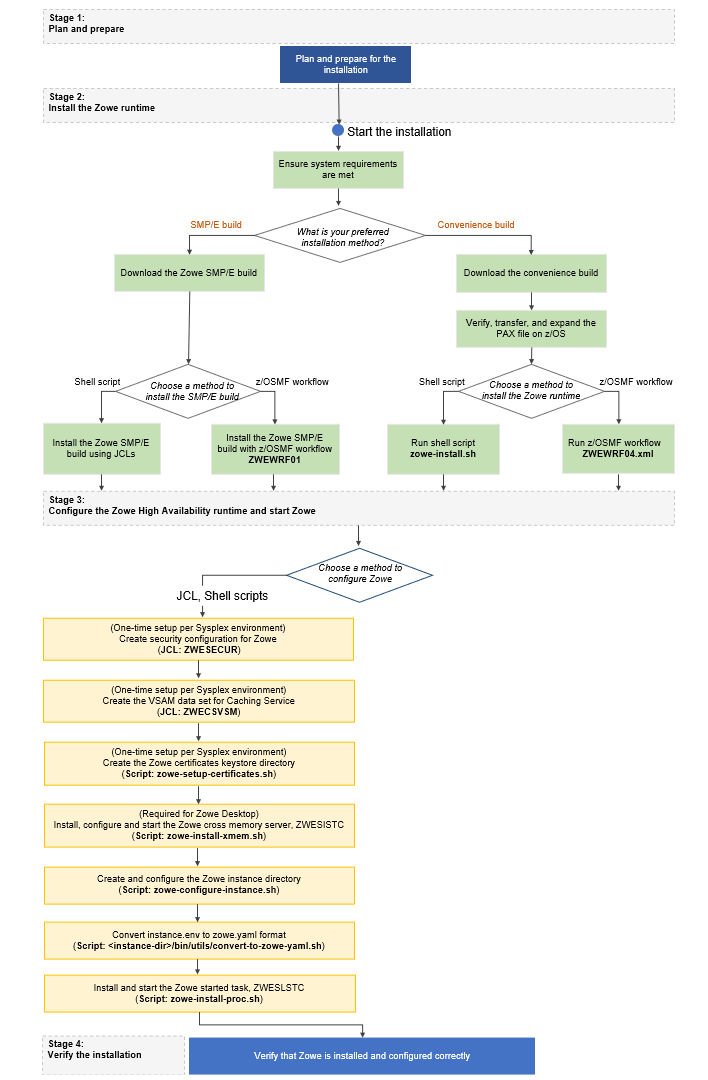
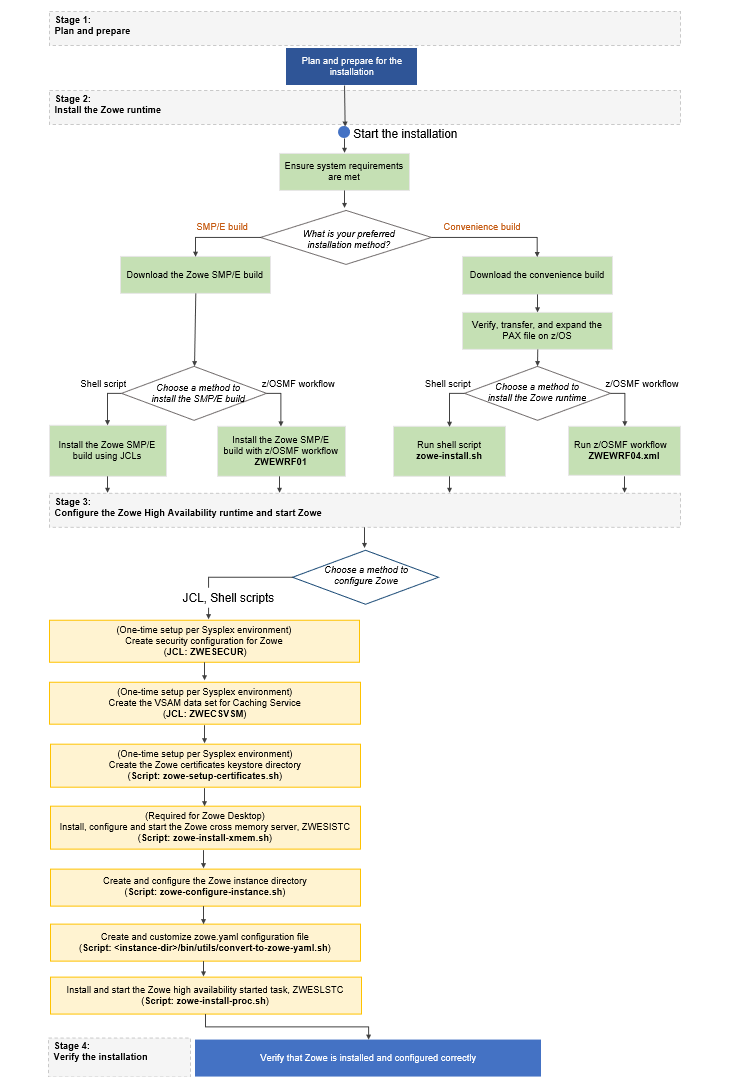
changes to HA installation roadmap, Zowe started task

diff --git a/docs/user-guide/install-ha-sysplex.md b/docs/user-guide/install-ha-sysplex.md
@@ -1,6 +1,6 @@
 # Zowe High Availability Installation Roadmap (Technical Preview)
 
-<Badge text="Technical Preview"/> The Zowe High Availability build is a technical preview. Technical previews are for testing only and not ready for production. Any feedback that you can provide is highly appreciated.
+<Badge text="Technical Preview"/> The high availability of Zowe is a technical preview. Technical previews are for testing only and not ready for production. Any feedback that you can provide is highly appreciated.
 
 There are two parts to installing Zowe&trade; on a Sysplex. 
 
@@ -38,8 +38,8 @@ Review the installation diagram and the introduction in this topic to see the ge
   <area href="configure-certificates.html" alt="Configure Zowe certificates using shell script" title="Create the Zowe certificates keystore directory using shell script" shape="rect" coords="124, 830, 426, 882" />
   <area href="configure-xmem-server.html" alt="Configure the Zowe cross memory server using shell script" title="Install and configure the Zowe cross memory server (ZWESISTC) using shell script" shape="rect" coords="123, 909, 426, 952" />
   <area href="configure-instance-directory.html" alt="Create and configure the Zowe instance directory using shell script" title="Create and configure the Zowe instance directory using shell script" shape="rect" coords="121, 976, 426, 1038" />
-  <area href="configure-instance-directory.html" alt="Create and configure the Zowe instance directory using shell script" title="Create and configure the Zowe instance directory using shell script" shape="rect" coords="121, 976, 426, 1038" />
-  <area href="configure-zowe-server.html" alt="Install and start the Zowe started task using shell script" title="Install and start the Zowe started task (ZWESVSTC) using shell script" shape="rect" coords="125, 1065, 426, 1117" />
+  <area href="configure-instance-directory.html" alt="Create and customize Zowe YAML configuration file using shell script" title="Create and customize Zowe YAML configuration file using shell script" shape="rect" coords="121, 976, 426, 1038" />
+  <area href="configure-zowe-ha-server.html" alt="Install and start the Zowe high availability started task using JCL" title="Install and start the Zowe high availability started task (ZWESLSTC) using JCL" shape="rect" coords="125, 1065, 426, 1117" />
 
   <area href="verify-zowe-runtime-install.html" alt="Verify Zowe installation on z/OS" title="Verify Zowe installation on z/OS" shape="rect" coords="224, 1154, 616, 1198" />
 </map>
@@ -50,9 +50,9 @@ Before you start the installation, review the information on hardware and softwa
 
 ## Stage 2: Install the Zowe runtime
 
-1. Ensure that the software requirements are met. The prerequisites are described in [System requirements](systemrequirements.md).
+1. Ensure that the software requirements are met. The prerequisites are described in [Zowe high availability requirements (host)](systemrequirements.md).
 
-1. Choose the method of installing Zowe High Availability on a Sysplex. 
+1. Choose the method of installing Zowe high availability instances on a Sysplex. 
 
    The Zowe z/OS binaries are distributed in the following formats. They contain the same contents but you install them by using different methods. You can choose which method to use depending on your needs.
 
@@ -73,11 +73,11 @@ Before you start the installation, review the information on hardware and softwa
    - For how to obtain the convenience build and install it, see [Installing Zowe runtime from a convenience build](install-zowe-zos-convenience-build.md).
    - For how to obtain the SMP/E build and install it, see [Installing Zowe SMP/E](install-zowe-smpe.md).
 
-**Note** To allow all LPARs in the Sysplex to access the installation and configuration of Zowe high availability, you must install and configure Zowe in a shared file system (zFS directory).
+**Note** To allow all LPARs in a Sysplex to access the installation and configuration of Zowe high availability instances, you must install and configure Zowe in a shared file system (zFS directory).
 
-After successful installation of either a convenience build or an SMP/E build, there will be a shared zFS directory that contains the unconfigured Zowe runtime `<RUNTIME_DIR>`, a SAMPLIB library `SZWESAMP` that contains sample members, and a load library `SZWEAUTH` that contains load modules. The steps to prepare the z/OS environment to launch Zowe are the same irrespective of the installation method.
+After successful installation of either a convenience build or an SMP/E build, there will be a shared zFS directory that contains the unconfigured Zowe runtime `<RUNTIME_DIR>`, a SAMPLIB library `SZWESAMP` that contains sample members, and a load library `SZWEAUTH` that contains load modules.
 
-## Stage 3: Configure the Zowe High Availability runtime
+## Stage 3: Configure the Zowe high availability runtime
 
 You can configure the Zowe runtime with one of the following methods depending on your needs. 
 - Use JCL and shell scripts
@@ -127,31 +127,32 @@ You can configure the Zowe runtime with one of the following methods depending o
     ZOWEUSER is userid for Zowe started task. Default should be ZWESVUSR.
     ```
 
-2. Create a VSAM data set which is used by the Caching Service feature of API Mediation Layer to allow components to be stateless by providing a mechanism to offload their state to a location accessible by all instances of the service.
+2. Create a VSAM data set which is used by the Caching Service feature of API Mediation Layer.
    
    A SAMPLIB JCL member `ZWECSVSM` is provided to assist with the creation of this VSAM data set. You need to customize the `ZWECSVSM` JCL member depending on site preferences, then sumbit the JCL.
 
 3. Configure the Zowe TLS. For instructions, see [Configuring Zowe certificates](configure-certificates.md).  
 
-   Zowe keystore directory needs to be created in a shared file system (zFS directory), so that it can be shared between all Zowe HA instances running in a Sysplex. 
+   Zowe keystore directory needs to be created in a shared file system (zFS directory), so that it can be shared between all Zowe high availability instances running in a Sysplex. 
    
    The Zowe keystore directory contains the key used by the Zowe desktop and the Zowe API mediation layer to secure its TLS communication with clients (such as web browsers or REST AI clients). The keystore directory also has a truststore where public keys of any servers that Zowe communicates to (such as z/OSMF) are held.
 
 4. Configure and start the `ZWESISTC` cross memory server and install the load libraries. For instructions, see [Installing and configuring the Zowe cross memory server (ZWESISTC)](configure-xmem-server.md) and [Configuring the Zowe cross memory server with z/OSMF workflow](configure-zowe-zosmf-workflow.md#configure-zowe-cross-memory-server).
 
-5. Create and customize an instance directory that contains configuration data required to launch a Zowe runtime and is where log files are stored. For instructions, see [Creating and configuring the Zowe instance directory](configure-instance-directory.md).
+5. Create and customize an instance directory that contains configuration data required to launch a Zowe runtime and is where log files and Zowe yaml configuration are stored. For instructions, see [Creating and configuring the Zowe instance directory](configure-instance-directory.md).
 
    One instance directory must be created on a shared file system (zFS directory). A single Zowe runtime can be launched multiple times from a shared instance directory.
 
-6. Create and customize <INSTANCE_DIR>/zowe.yaml` by converting the existing `<INSTANCE_DIR>/instance.env`. Once Zowe.yaml file is created, `<INSTANCE_DIR>/instance.env` can be reomved.
+6. Create and customize `<INSTANCE_DIR>/zowe.yaml` by a utility tool in `<INSTANCE_DIR>/bin/convert-to-zowe-yaml.sh`. The utility converts the existing `<INSTANCE_DIR>/instance.env` to `<INSTANCE_DIR>/zowe.yaml`.
 
-   Next, you will install and configure the Zowe started tasks. Zowe in high availability mode has two high-level started tasks: `ZWESLSTC` that launches the Zowe HA instances, and `ZWESISTC` that is a cross memory server that runs all of the APF-authorized code. The JCLs for the tasks are included in the PDS SAMPLIB `SZWESAMP` installed by Zowe and the load modules for the cross memory server are included in the PDS load library `SZWEAUTH`.
+   Next, you will install and configure the Zowe started tasks. Zowe in high availability mode has two high-level started tasks: `ZWESLSTC` that launches the Zowe high availability instances, and `ZWESISTC` that is a cross memory server that runs all of the APF-authorized code. The JCLs for the tasks are included in the PDS SAMPLIB `SZWESAMP` installed by Zowe and the load modules for the cross memory server are included in the PDS load library `SZWEAUTH`.
    
    **Note** 
    
-   For more information about Gateway and Discovery Service parameters that can be set during the Zowe runtime configuration, see [API Gateway runtime configuration parameters](./api-mediation/api-gateway-configuration.md) and [Discovery Service runtime configuration parameters](./api-mediation/discovery-service-configuration.md).
+   - To learn more about `zowe.yaml`, see [Reviewing the zowe.yaml file](#reviewing-the-zowe-yaml-file-technical-preview) section.
+   - For more information about Gateway and Discovery Service parameters that can be set during the Zowe runtime configuration, see [API Gateway runtime configuration parameters](./api-mediation/api-gateway-configuration.md) and [Discovery Service runtime configuration parameters](./api-mediation/discovery-service-configuration.md).
 
-7. Configure and start the `ZWESLSTC` started task. For instructions, see [Installing the Zowe started task (ZWESLSTC)](configure-zowe-ha-server.md). 
+7. Configure and start the `ZWESLSTC` started task. For instructions, see [Installing and starting the Zowe high availability started task](configure-zowe-ha-server.md). 
 
 ## Stage 4: Verify the installation
 

diff --git a/docs/user-guide/installandconfig.md b/docs/user-guide/installandconfig.md
@@ -31,7 +31,7 @@ If you are installing one or more server components onto z/OS, the following inf
 
 - Multiple instances of Zowe can be started from the same Zowe z/OS runtime. Each launch of Zowe has its own zFS directory that is known as an instance directory.
 
-- For Zowe in a high availability configuration, there will be only one instance directory which must be created on a shared file system (zFS directory) where all LPARs in the Sysplex can access. To install Zowe in a Parallel Sysplex environment, a YAML configuration file is used to customize the Zowe instance.
+- For Zowe in a high availability configuration, there will be only one instance directory which must be created on a shared file system (zFS directory) where all LPARs in a Sysplex can access. To install Zowe in a Parallel Sysplex environment, a YAML configuration file is used to customize the Zowe high availability instances.
 
 - (If not using Docker) Zowe uses a zFS directory to contain its northbound certificate keys as well as a truststore for its southbound keys. Northbound keys are one presented to clients of the Zowe desktop or Zowe API Gateway, and southbound keys are for servers that the Zowe API gateway connects to.  The certificate directory is not part of the Zowe runtime so that it can be shared between multiple Zowe runtimes and have its permissions secured independently. 
 
@@ -39,7 +39,7 @@ If you are installing one or more server components onto z/OS, the following inf
    - `ZWESISTC` is a cross memory server that the Zowe desktop uses to perform APF-authorized code. More details on the cross memory server are described in [Configuring the Zowe cross memory server](configure-xmem-server.md).
    - `ZWESASTC` is a cross memory Auxiliary server that is used under some situations in support of a Zowe extension. Auxiliary server is started, controlled, and stopped by the cross memory server, so no need to start it manually. More details are described in [Zowe auxiliary service](configure-xmem-server.md)
    - `ZWESVSTC` brings up the every other part of the Zowe runtime on z/OS that was requested. This may include Desktop, API mediation layer, ZSS, and more, but when using Docker likely only ZSS will be used here.
-   - `ZWESLSTC` is used for Zowe high availability configuration rather than ZWESVSTC. It brings up and stops Zowe high-availability instances, or specific Zowe components without restarting the entire Zowe high-availability instance.
+   - `ZWESLSTC` is used for Zowe high availability configuration rather than ZWESVSTC. It brings up and stops Zowe high availability instances, or specific Zowe components without restarting the entire Zowe high availability instances.
    
      In order for above started tasks to run correctly, security manager configuration needs to be performed.  This is documented in [Configuring the z/OS system for Zowe](configure-zos-system.md) and a sample JCL member `ZWESECUR` is shipped with Zowe that contains commands for RACF, TopSecret, and ACF2 security managers.  
 
@@ -62,15 +62,16 @@ During execution of Zowe, the runtime directory contents are not modified.  Main
 
 ### INSTANCE_DIR
 
-The instance directory `<INSTANCE_DIR>` is required to launch Zowe.  It is created with the script `<RUNTIME_DIR>/bin/zowe-configure-instance.sh`.  More than one instance directory can be created and used to launch multiple instances of Zowe sharing the same runtime directory `<RUNTIME_DIR>`.
+The instance directory `<INSTANCE_DIR>` is required to launch Zowe.  It is created with the script `<RUNTIME_DIR>/bin/zowe-configure-instance.sh`. More than one instance directory can be created and used to launch multiple instances of Zowe sharing the same runtime directory `<RUNTIME_DIR>`.
 
-Zowe instances are started by running the script `<INSTANCE_DIR>/bin/zowe-start.sh`.  This creates a started task with the PROCLIB member `ZWESVSTC` that is provided with the samplib `SZWESAMP` created during the installation of Zowe.  The JCL member `ZWESVSTC` starts a USS shell under which it launches its address spaces.  
+Zowe instances are started by running the script `<INSTANCE_DIR>/bin/zowe-start.sh`. This creates a started task with the PROCLIB member `ZWESVSTC` that is provided with the samplib `SZWESAMP` created during the installation of Zowe. The JCL member `ZWESVSTC` starts a USS shell under which it launches its address spaces.  
 
-The instance directory file `instance.env` is used to configure a Zowe launchable.  The file is executed during the launch of Zowe and specifies shell variables such as ports and location of dependent directories and services on z/OS.  
+The instance directory file `instance.env` is used to configure a Zowe launchable. The file is executed during the launch of Zowe and specifies shell variables such as ports and location of dependent directories and services on z/OS.  
 
 The `instance.env` file sets the location of the `<RUNTIME_DIRECTORY>` as well as the `<KEYSTORE_DIRECTORY>`
 
+**Note:** Alternatively, from v1.22.0 release, a YAML format configuration file `zowe.yaml` can be used to configure Zowe runtime for high availability instead of `instance.env`. To learn more about `zowe.yaml`, see [Reviewing the zowe.yaml file](#reviewing-the-zowe-yaml-file-technical-preview) section.
+
 ### KEYSTORE_DIRECTORY
 
-Zowe uses certificates to encrypt data as well as a truststore.  The keystore directory `<KEYSTORE_DIRECTORY>` controls where the certificates are located, either in a JavaKeystore or a z/OS keyring.  A `<KEYSTORE_DIRECTORY>` is created by using the script `<RUNTIME_DIR>/bin/zowe-setup-certificates.sh`.  
-
+Zowe uses certificates to encrypt data as well as a truststore.  The keystore directory `<KEYSTORE_DIRECTORY>` controls where the certificates are located, either in a JavaKeystore or a z/OS keyring.  A `<KEYSTORE_DIRECTORY>` is created by using the script `<RUNTIME_DIR>/bin/zowe-setup-certificates.sh`.

diff --git a/docs/user-guide/systemrequirements.md b/docs/user-guide/systemrequirements.md
@@ -1,22 +1,24 @@
 # System requirements 
 
-Before installing Zowe&trade;, ensure that your environment meets the prerequisites. Note that not all of the prerequisites below are needed. The prerequisites that you need depend on what Zowe components you want to use.
+Before installing Zowe&trade;, ensure that your environment meets the prerequisites.
 
 - [z/OS system requirements (host)](#zos-system-requirements-host)
-    - [Zowe API Mediation Layer on z/OS requirements (host)](#zowe-api-mediation-layer-on-zos-requirements-host)
-    - [Zowe Web Explorers and APIs on z/OS requirements (host)](#zowe-web-explorers-and-apis-on-zos-requirements-host)
-    - [Zowe Application Framework on z/OS requirements (host)](#zowe-application-framework-on-zos-requirements-host)
+  - [Zowe API Mediation Layer on z/OS requirements](#zowe-api-mediation-layer-on-zos-requirements-host)
+  - [Zowe Web Explorers and APIs on z/OS requirements](#zowe-web-explorers-and-apis-on-zos-requirements-host)
+  - [Zowe Application Framework on z/OS requirements](#zowe-application-framework-on-zos-requirements-host)
     - [Important note for users upgrading to v1.14](#important-note-for-users-upgrading-to-v114)
-- [Docker requirements (host)](#docker-requirements-host)
-- [Zowe HA requirements (host)](#zowe-ha-requirements-host)
-- [Zowe Desktop requirements (client)](#zowe-desktop-requirements-client)
+- [Docker requirements](#docker-requirements-host)
+- [Zowe Desktop requirements](#zowe-desktop-requirements-client)
 - [Zowe CLI requirements](#zowe-cli-requirements)
-    - [Client-side](#client-side)
-    - [Host-side](#host-side)
-    - [Free disk space](#free-disk-space)
+  - [Client-side](#client-side)
+  - [Host-side](#host-side)
+  - [Free disk space](#free-disk-space)
 - [Feature requirements](#feature-requirements)
-    - [Multi-Factor Authentication MFA](#multi-factor-authentication-mfa)
-    - [Single Sign-On SSO](#single-sign-on-sso)
+  - [Multi-Factor Authentication (MFA)](#multi-factor-authentication-mfa)
+  - [Single Sign-On (SSO)](#single-sign-on-sso)
+
+
+**Please note: Not all of the prerequisites below are needed. The prerequisites needed depends on what components you want to use.**
 
 Zowe CLI operates independently of the Zowe z/OS component and is installed on a client PC that runs Windows, Linux, or Mac operating systems.  It can access z/OS endpoints such as z/OSMF, or can access FTP, CICS, DB2, and other z/OS services through plug-ins.  Unless required by plug-ins, the Zowe CLI does not require the Zowe server components to be installed.
 
@@ -114,9 +116,9 @@ When using Docker, z/OS is still required and if using the Application Framework
 
 **Note:** The subsections of z/OS requirements such as for API Mediation Layer, Web Explorers, and Application Framework are not required because they are included in the Docker install.
 
-## Zowe HA requirements (host)
+## Zowe high availability requirements (host)
 
-Zowe high availability requires a Sysplex environment that consists of the following configurations:
+Zowe high availability instances requires a Sysplex environment that consists of the following:
 
 - One or more central processor complexes (CPCs) that can attach to a coupling facility
 
@@ -126,21 +128,21 @@ Zowe high availability requires a Sysplex environment that consists of the follo
 
 - Connection to shared DASD
 
-- Shared SAF database. See [Sharing a database with sysplex communication in data sharing mode](https://www.ibm.com/docs/en/zos/2.1.0?topic=sd-sharing-database-sysplex-communication-in-data-sharing-mode) in IBM Docs.
+- Shared SAF database, see [Sharing a database with sysplex communication in data sharing mode](https://www.ibm.com/docs/en/zos/2.1.0?topic=sd-sharing-database-sysplex-communication-in-data-sharing-mode)
 
 - Sysplex distributor, configured Dynamic VIPA TCP/IP address
 
-- VSAM record-level sharing (RLS). See [Preparing for VSAM record-level sharing](https://www.ibm.com/docs/en/zos/2.4.0?topic=sharing-preparing-vsam-record-level) in IBM Docs.
+- VSAM record-level sharing (RLS), see [Preparing for VSAM record-level sharing](https://www.ibm.com/docs/en/zos/2.4.0?topic=sharing-preparing-vsam-record-level)
 
-- USS Shared file system. See [How to share file systems in a Sysplex](https://www.ibm.com/docs/en/zos/2.4.0?topic=planning-sharing-file-systems-in-sysplex) in IBM Docs.
+- USS Shared file system, see [How to share file systems in a Sysplex](https://www.ibm.com/docs/en/zos/2.4.0?topic=planning-sharing-file-systems-in-sysplex)
 
 - JESPlex/JES2 Multi-Access Spool (MAS) environment
 
-- z/OSMF high availability. See [Configuring z/OSMF for high availability in Sysplex](systemrequirements-zosmf-ha.md).
+- z/OSMF high availability, see [Configuring z/OSMF high availability in Sysplex](systemrequirements-zosmf-ha.md)
 
 - Node.js v8.x (except v8.16.1), v12.x, or v14
 
-**Note:** It is highly recommended that you install Node.js on a shared file system.
+**Note:** It is highly recommended that Node.js installed on a shared file system.
 
 ## Zowe Desktop requirements (client)
 

diff --git a/docs/user-guide/scripted-configure-server.md b/docs/user-guide/scripted-configure-server.md
@@ -1,6 +1,8 @@
 # Installing and configuring Zowe z/OS components using scripts
 
-A Zowe installation creates two PDS sample libraries, `SZWEAUTH` and `SZWESAMPE`.  Before starting the two Zowe started tasks `ZWESVSTC` (for the main Zowe z/OS components), and `ZWESISTC` (for the cross memory server), you must complete additional configuration steps as described in [Installing and starting the Zowe started task (ZWESVSTC)](configure-zowe-server.md) and [Installing and configuring the Zowe cross memory server (ZWESISTC)](configure-xmem-server.md).   
+A Zowe installation creates two PDS sample libraries, `SZWEAUTH` and `SZWESAMP`. Before starting the two Zowe started tasks for the main Zowe z/OS components and the cross memory server, you must complete additional configuration steps as described in
+  - [Installing and starting the Zowe started task (ZWESVSTC)](configure-zowe-server.md) or [Installing and starting the Zowe high availability started task (ZWESLSTC)](configure-zowe-ha-server.md)
+  - [Installing and configuring the Zowe cross memory server (ZWESISTC)](configure-xmem-server.md)
 
 Zowe provides UNIX shell scripts to assist with installation and configuration for scenarios where you wish to automate this process, for example if you have a DevOps pipeline or other repeatable scenario where you are installing and starting a Zowe runtime. These are the same scripts used by the Zowe community themselves for the automated Zowe continuous integration continuous delivery (CICD) pipeline which creates Zowe releases.
 
@@ -10,7 +12,7 @@ The script `<RUNTIME_DIR>/scripts/utils/zowe-install-proc.sh -d <dataSetPrefix> 
 
 - **`-d <dataSetPrefix>`** - Source PDS Prefix
 
-   Dataset prefix of the source PDS where `.SZWESAMP(ZWESVSTC)` was installed into.  
+   Dataset prefix of the source PDS `.SZWESAMP` where Zowe was installed into.  
 
    For an installation from a convenience build, this will be the value of the `-h` argument when `zowe-install.sh` was executed.
 
@@ -18,7 +20,7 @@ The script `<RUNTIME_DIR>/scripts/utils/zowe-install-proc.sh -d <dataSetPrefix> 
 
 - **`-r <proclib>`** - Target PROCLIB PDS (optional)
    
-   Target PROCLIB PDS where ZWESVSTC will be placed. If the parameter is omitted, the script scans the JES PROCLIB concatenation path and uses the first data set where the user has write access
+   Target PROCLIB PDS where Zowe server started task procedure will be placed. If the parameter is omitted, the script scans the JES PROCLIB concatenation path and uses the first data set where the user has write access
 
 - **`-l <log_directory>`** - Log directory (optional)
 
@@ -35,11 +37,11 @@ The script `<RUNTIME_DIR>/scripts/utils/zowe-install-xmem.sh -d <dataSetPrefix> 
 
 - **`-d <dataSetPrefix>`** - Source PDS prefix.
   
-  This is the data set prefix of the source PDS where `.SZWESAMP` was installed into.   
+  This is the data set prefix of the source PDS `.SZWESAMP` where Zowe was installed into.   
 
 - **`-a <parmlib>`** - Target DSN for PARMLIB (optional)
 
-  This is the data set name where the PARMLIB member `ZWESIP00` will be placed. If the parameter is omitted, then source data set `SZWESAMP` will be used by the started task PROCLIB `ZWESISTC`.  If `-a` is set, then the `EXEC DD PARMLIB=` statement in the JCL PROCLIB `ZWESISTC` will be updated.  
+  This is the data set name where the PARMLIB member `ZWESIP00` will be placed. If the parameter is omitted, then source data set `.SZWESAMP` will be used by the started task PROCLIB `ZWESISTC`.  If `-a` is set, then the `EXEC DD PARMLIB=` statement in the JCL PROCLIB `ZWESISTC` will be updated.  
 
 - **`-r <proclib>`** - Target PROCLIB PDS where `ZWESASTC` and `ZWESISTC` will be placed. 
 

diff --git a/docs/user-guide/configure-zos-system.md b/docs/user-guide/configure-zos-system.md
@@ -27,7 +27,7 @@ When you run the `ZWESECUR` JCL, it does not perform the following initializatio
 The `ZWESECUR` JCL performs the following initialization steps so you do not need to perform them manually if you have successfully run the JCL.  These steps are included for reference if you prefer to manually configure the z/OS environment or want to learn more about user IDs, groups, and associated security permissions that are required to operate Zowe.  
 - [User IDs and groups for the Zowe started tasks](#user-ids-and-groups-for-the-zowe-started-tasks)
 - [Configure ZWESVSTC to run under ZWESVUSR user ID](#configure-zwesvstc-to-run-under-zwesvusr-user-ID)
-- [Configure ZWESLSTC to run Zowe High Availability under ZWESVUSR user ID](#configure-zweslstc-to-run-under-zwesvusr-user-ID)
+- [Configure ZWESLSTC to run high availability instances under ZWESVUSR user ID](#configure-zweslstc-to-run-under-zwesvusr-user-ID)
 - [Configure the cross memory server for SAF](#configure-the-cross-memory-server-for-saf)
 
 
@@ -65,7 +65,7 @@ The zssServer uses cookies that require random number generation for security. T
 
 If you have not configured your z/OS environment for ICSF, see [Cryptographic Services ICSF: System Programmer's Guide](https://www.ibm.com/support/knowledgecenter/en/SSLTBW_2.3.0/com.ibm.zos.v2r3.csfb200/abstract.htm) for more information.  To see whether ICSF has been started, check whether the started task `ICSF` or `CSF` is active.
 
-If you run Zowe High Availability on a Sysplex, ICSF needs to be configured in a Sysplex environment to share KDS data sets across systems in a Sysplex. For detailed information, see [Running in a Sysplex Environment](https://www.ibm.com/docs/en/zos/2.3.0?topic=guide-running-in-sysplex-environment)
+If you run Zowe high availability on a Sysplex, ICSF needs to be configured in a Sysplex environment to share KDS data sets across systems in a Sysplex. For detailed information, see [Running in a Sysplex Environment](https://www.ibm.com/docs/en/zos/2.3.0?topic=guide-running-in-sysplex-environment)
 
 The Zowe z/OS environment configuration JCL member `ZWESECUR` does not perform any steps related to ICSF that is required for zssServer that the Zowe desktop uses. Therefore, if you want to use Zowe desktop, you must perform the steps that are described in this section manually.
 
@@ -374,13 +374,13 @@ If you have not run `ZWESECUR` and are configuring your z/OS environment manuall
   TSS ADDTO(STC) PROCNAME(ZWESVSTC) ACID(ZWESVUSR)
   ```
 
-## Configure ZWESLSTC to run Zowe High Availability under ZWESVUSR user ID
+## Configure ZWESLSTC to run Zowe high availability instances under ZWESVUSR user ID
 
-You need Zowe started task `ZWESLSTC` for Zowe High Availability. When the Zowe started task `ZWESLSTC` is started, it must be associated with the user ID `ZWESVUSR` and group `ZWEADMIN`.  A different user ID and group can be used if required to conform with existing naming standards.
+You need Zowe started task `ZWESLSTC` for Zowe high availability. When the Zowe started task `ZWESLSTC` is started, it must be associated with the user ID `ZWESVUSR` and group `ZWEADMIN`.  A different user ID and group can be used if required to conform with existing naming standards.
 
 If you have run `ZWESECUR`, you do not need to perform the steps described in this section, because they are executed during the JCL section of `ZWESECUR`.  
 ```
-/* started task for ZOWE main server                   */
+/* started task for ZOWE Launcher in high availability               */
 ...
 ```
 

diff --git a/docs/user-guide/configure-zowe-ha-server.md b/docs/user-guide/configure-zowe-ha-server.md
@@ -24,8 +24,8 @@ If you issue the SDSF command `S ZWESLSTC`, the JCL will need to know which high
 S ZWESLSTC,HAINST=<ha-instance-id>
 ```
 
-The `ha-instance-id` argument is the high available instance ID that is defined in `haInstances` section of `zowe.yaml` file.
+The `ha-instance-id` argument is the high available instance ID that is defined in `haInstances` section of `zowe.yaml` configuration file. To learn more about `zowe.yaml`, see [Reviewing the zowe.yaml file](#reviewing-the-zowe-yaml-file-technical-preview) section.
 
 This command enables you to start multiple instances of a same component which eliminate single points of failure to ensure continuous Zowe components operations.
 
-In PROCLIB member `ZWESLSTC`, you need to set parameter `INSTANCE_DIR` to the location (fully qualified path) of the Zowe instance directory that contains the `zowe.yaml` file.
+In PROCLIB member `ZWESLSTC`, you need to set parameter `INSTANCE_DIR` to the location (fully qualified path) of the Zowe instance directory that contains the `zowe.yaml` configuration file.
